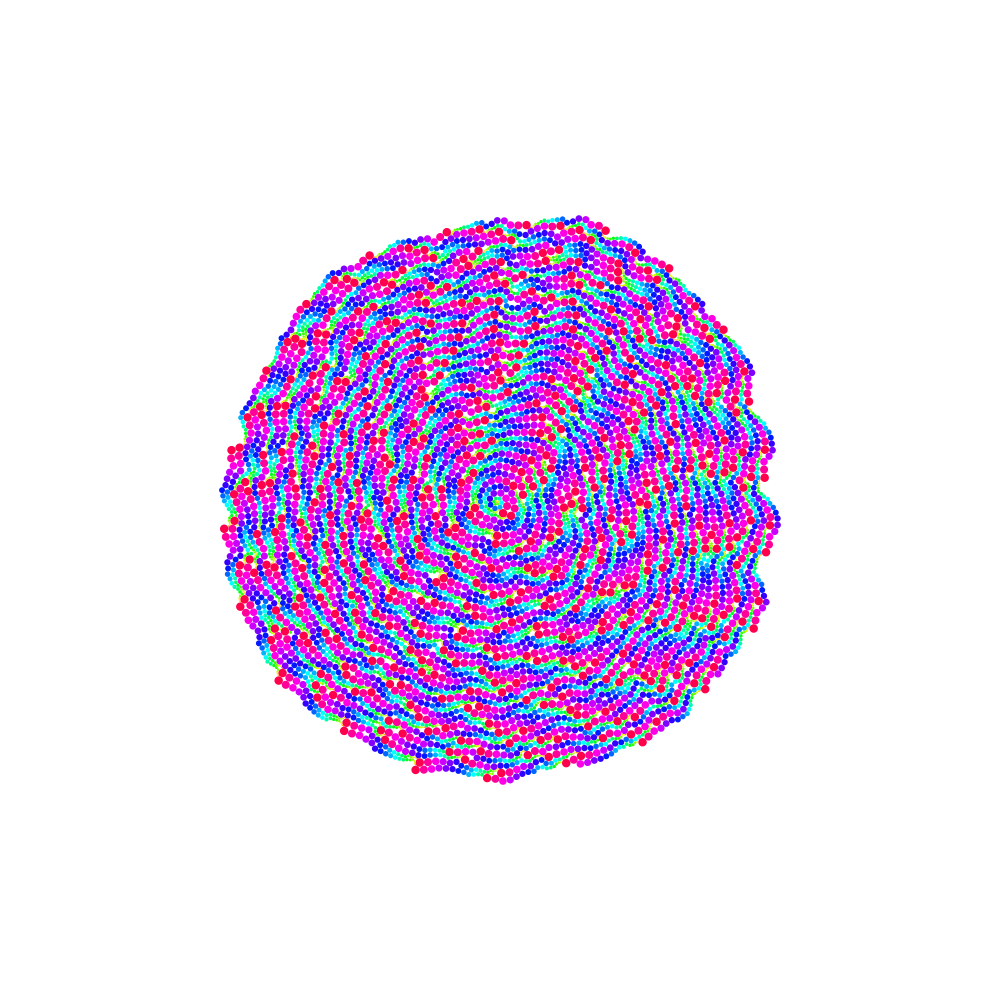
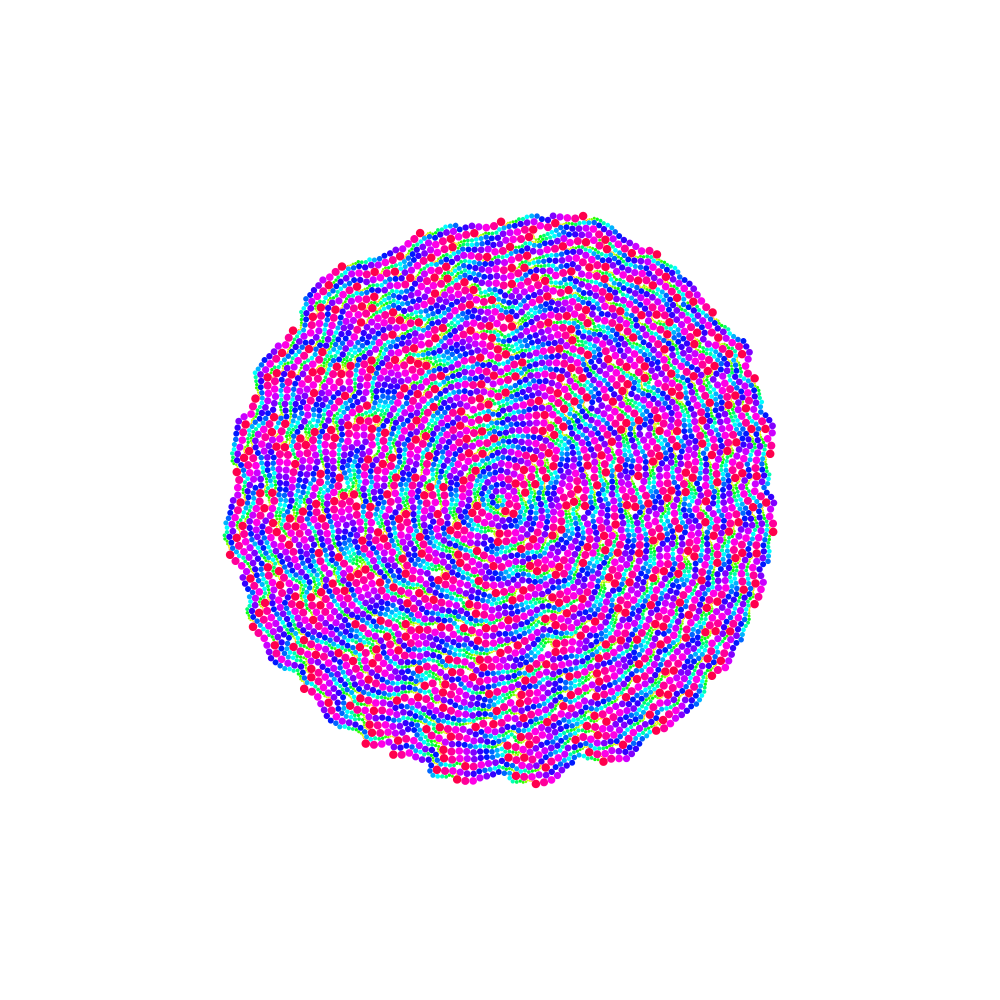
Add bounadry example

Changed region(s): [[0.217, 0.186, 0.806, 0.806]]

diff --git a/examples/main_baoboundaries.py b/examples/main_baoboundaries.py
@@ -1,0 +1,17 @@
+from PVG              import *
+from circlepackingbao import *
+
+canvas = Canvas()
+
+def fdraw(node,index,style):
+    canvas.draw(node,style)
+
+boundaries = [Circle(p,1.0) for p in C0.scale(100.0).samples(usamples(300))]
+inodes     = baonodes0()
+baopattern = BaoPattern().fdraw(fdraw).radiuspattern(R(1.0,3.0).samples(20)).colorpattern([Color.hue2color(float(index)/20.0) for index in range(20)])
+
+canvas.draw(inodes)
+
+packing = CirclePackingBao.iter(boundaries,inodes,baopattern,3000)
+
+canvas.save("baoboundaries.png")
